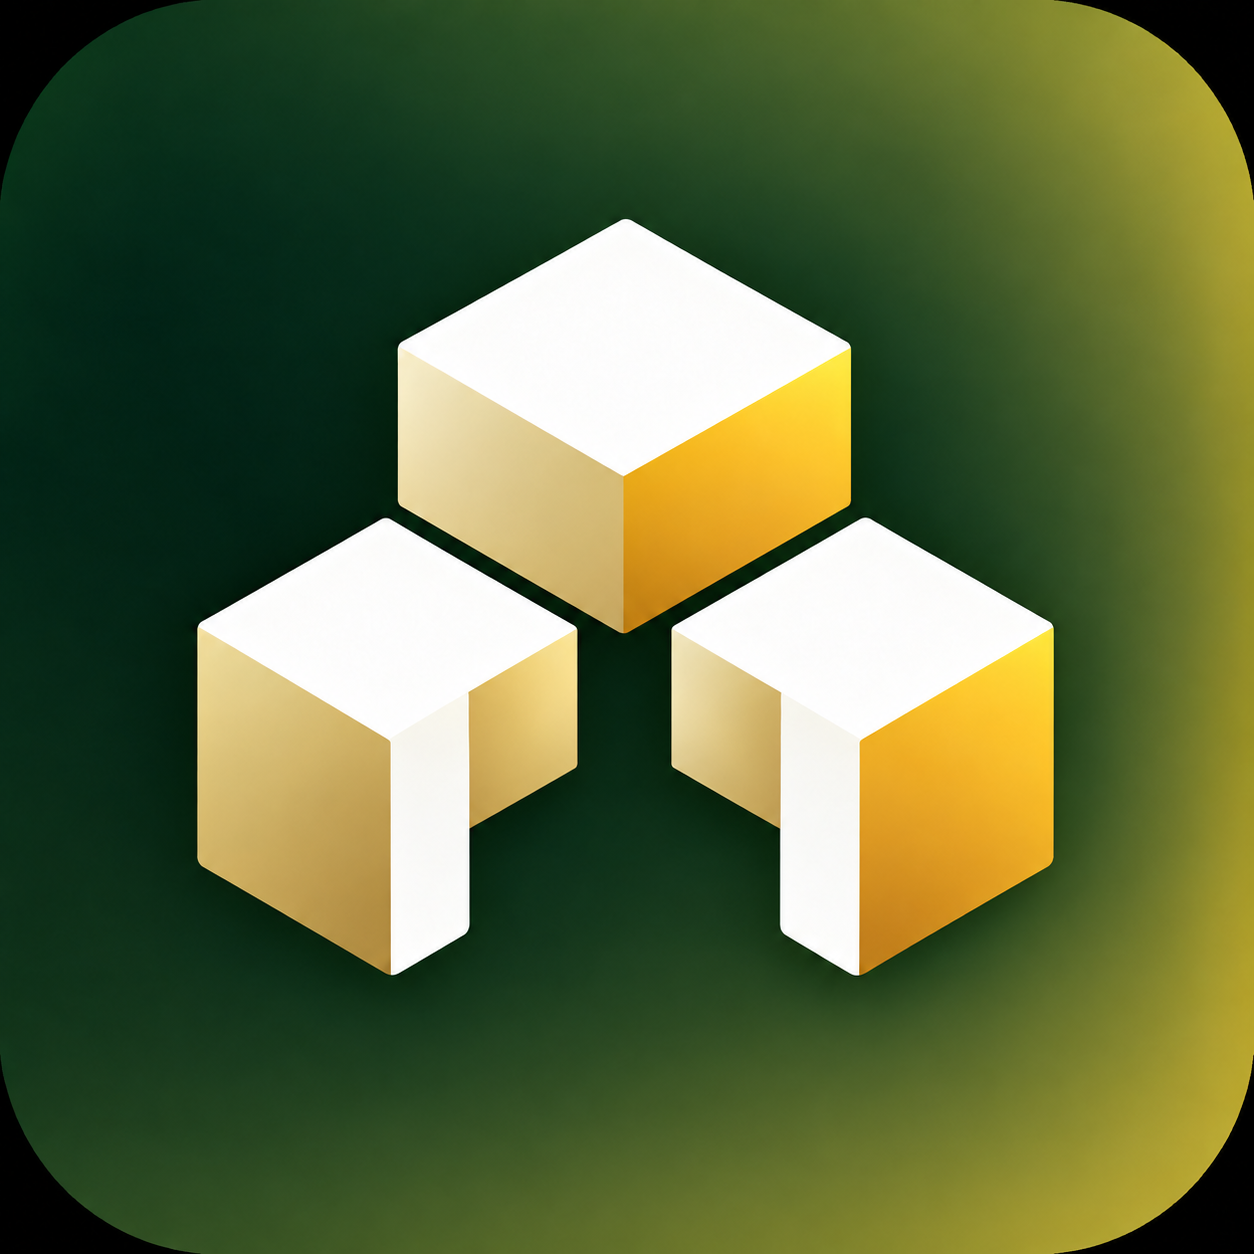
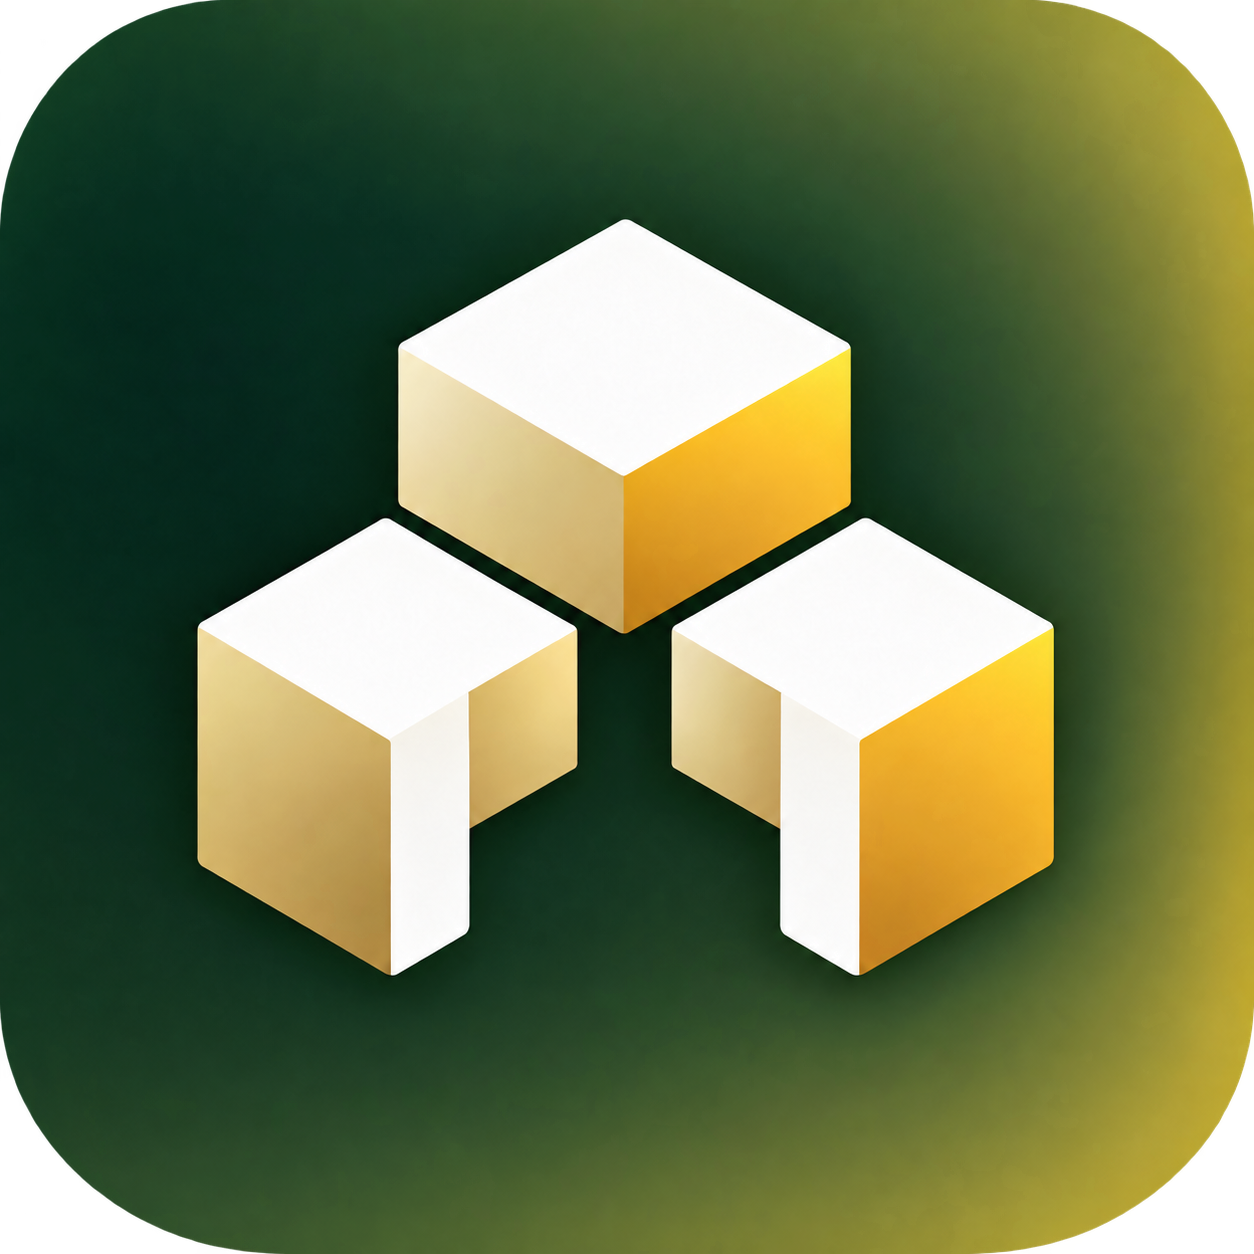
Release version 0.1.1

diff --git a/CHANGELOG.md b/CHANGELOG.md
@@ -2,6 +2,16 @@
 
 All notable changes to Modules for Laravel will be documented in this file.
 
+## 0.1.1 - 2026-10-07
+
+### Added
+
+* Inertia page discovery for Laravel modules through Laravel LSP `v0.0.31-modules.4`.
+
+### Changed
+
+* Updated the extension icon with transparent outer corners.
+
 ## 0.1.0 - 2026-10-05
 
 ### Added
